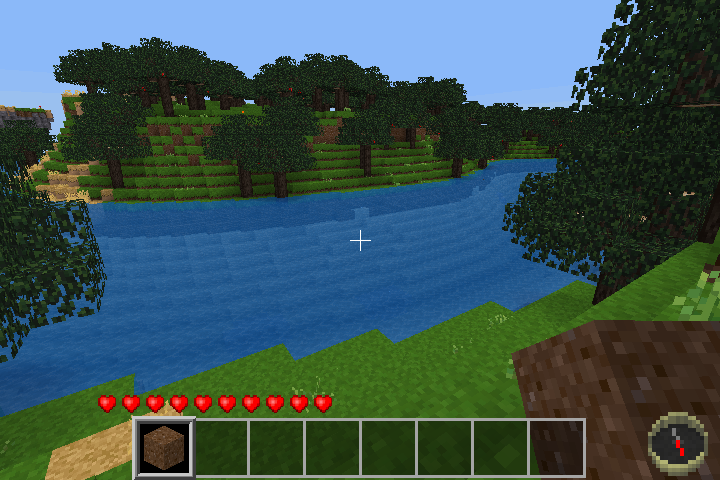
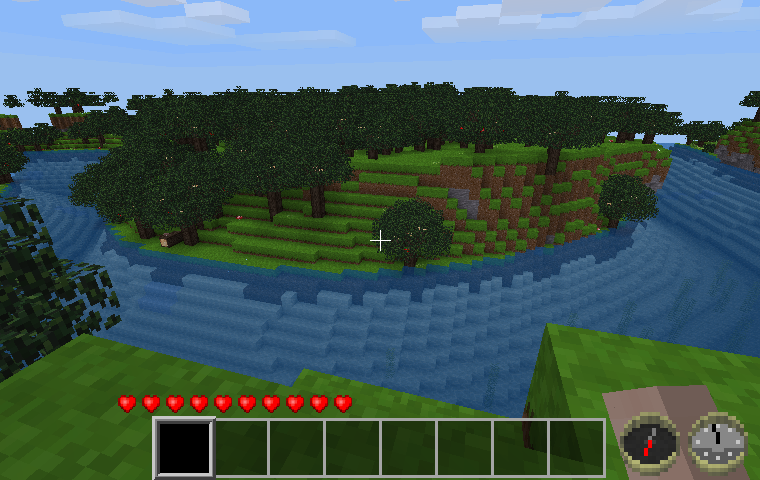
Display both compass and 24-hour clock.

diff --git a/README.md b/README.md
@@ -1,7 +1,7 @@
 HUD Compass [hud_compass]
 -------------------------
 
-A Minetest mod to optionally place a HUD compass on the screen.
+A Minetest mod to optionally place a HUD compass and 24-hour clock on the screen.
 
 By David G (kestral246)
 
@@ -10,13 +10,13 @@ By David G (kestral246)
 How to enable
 -------------
 
-This mod defaults to not displaying compass. To enable, use the chat command:
+This mod defaults to not displaying compass and clock. To enable, use the chat command:
 
-	"/compass" -> By default this places a compass in the bottom right corner of the screen.
+	"/compass" -> By default this places a compass and clock in the bottom right corner of the screen.
 
-Repeated use of this command will toggle the compass display off and on.
+Repeated use of this command will toggle the display of the compass and clock off and on.
 
-**New:** When given with an argument, the position of the compass can be changed. This is particularly useful with Android clients, where the bottom right corner of the screen has the jump button.
+**New:** When given with an argument, the position of the compass and clock can be changed. This is particularly useful with Android clients, where the bottom right corner of the screen has the jump button.
 
 	"/compass 1" -> top right corner
 	"/compass 2" -> bottom right corner
